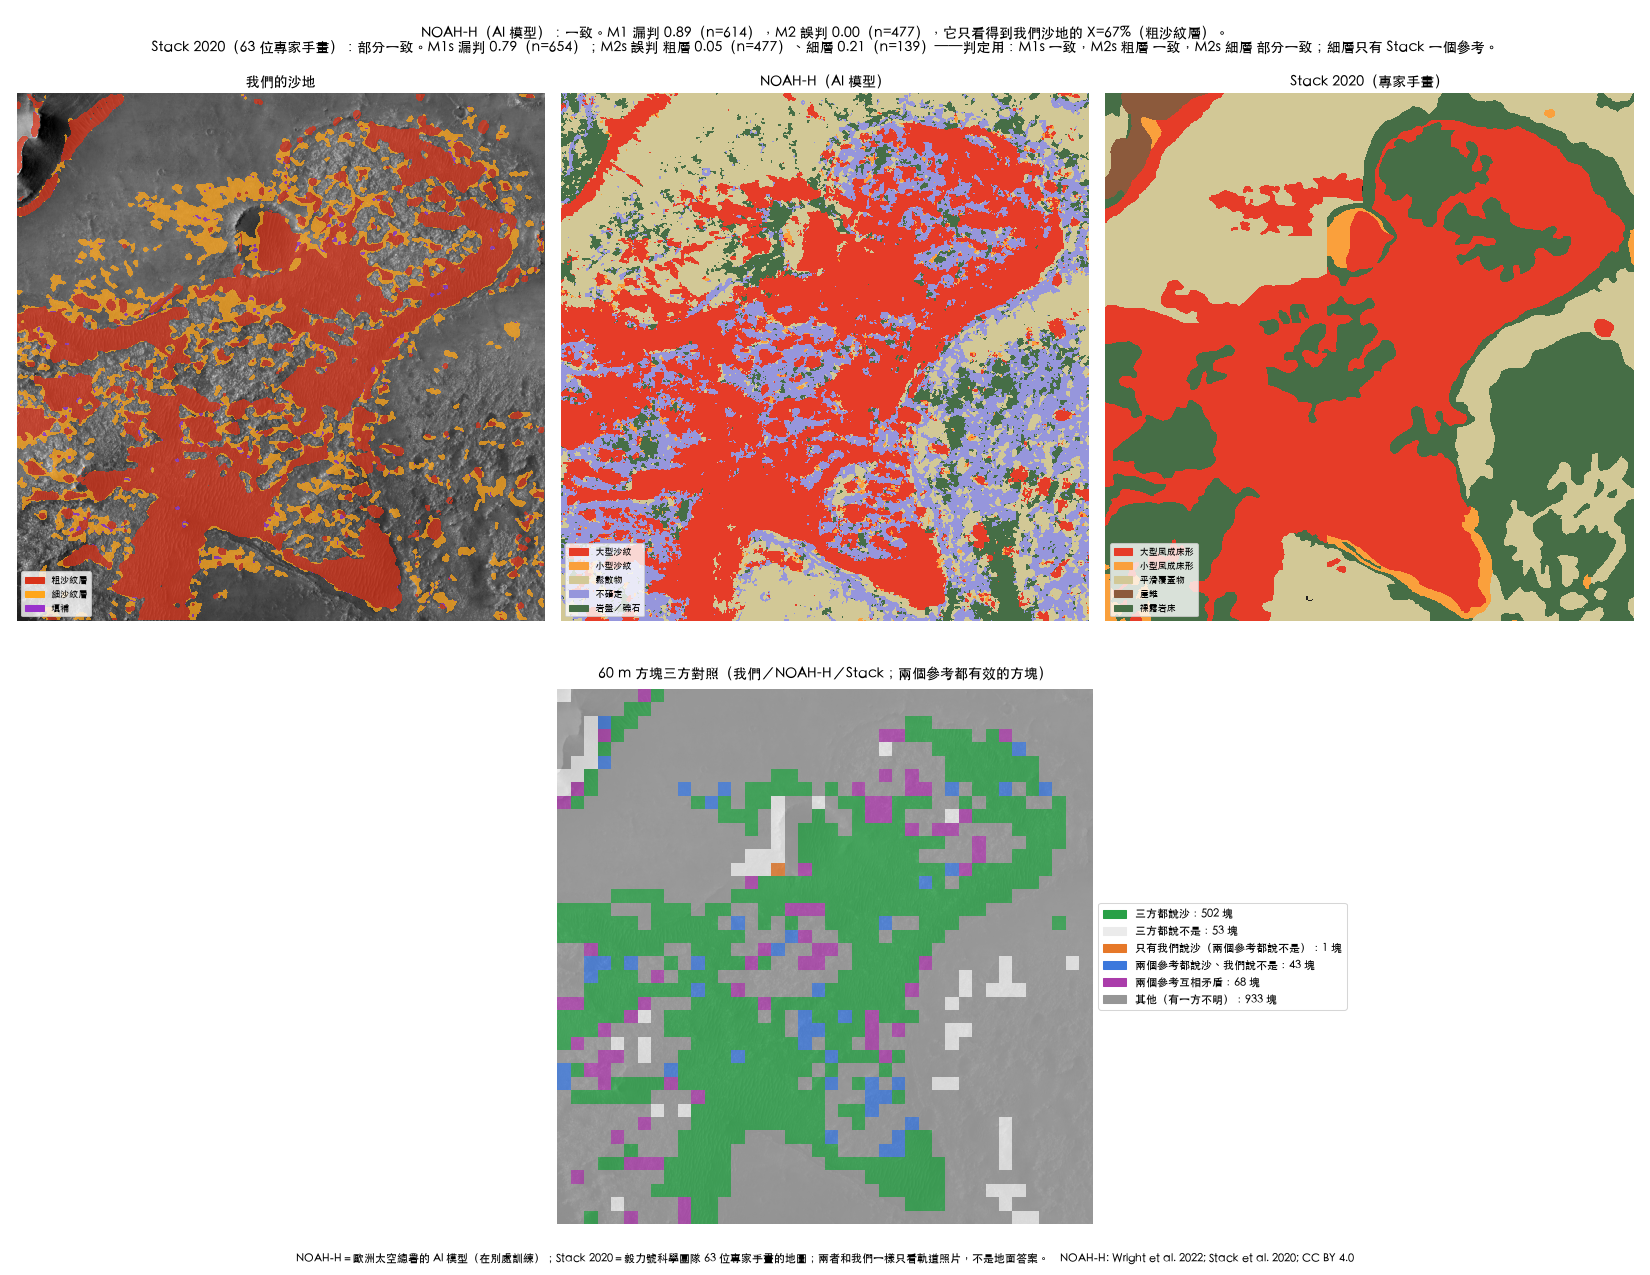
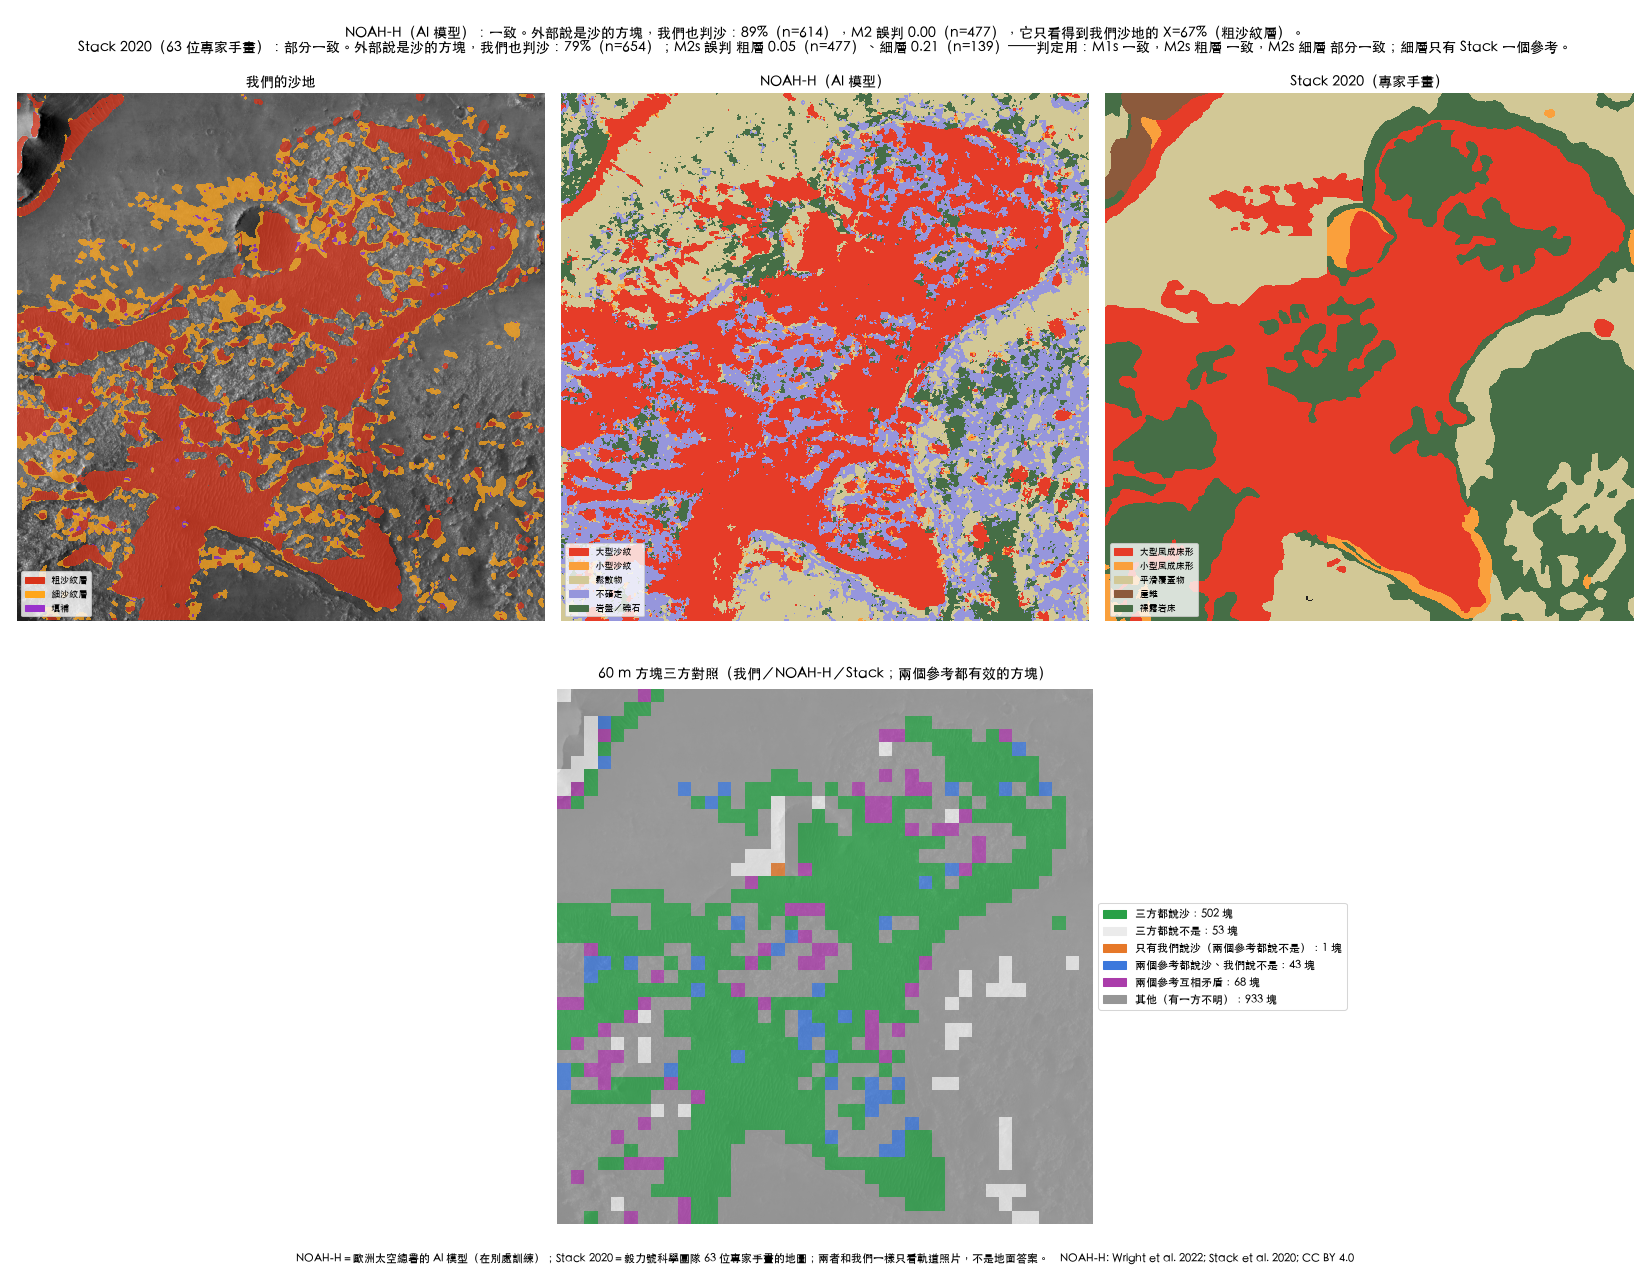
README/UI wording per direction rev 15 (option D): Limitations entry for the NOAH-H and Stack 2020 comparisons, Status sentence, idx.ab.L.sand; DATA_LOG acceptance line; ST1 figure top lines reworded (text only, no number changed)
Claude-Session: https://claude.ai/code/session_01PJvXnofSRBXUdNFScTHsf8

Changed region(s): [[0.0618, 0.0, 0.9582, 0.0612]]

diff --git a/web/i18n.js b/web/i18n.js
@@ -144,7 +144,7 @@ const I18N_RAW = {
   'idx.ab.lDerived': [`地形類別、路線、氧氣、時間`, `classes, routes, oxygen, time`],
   'idx.ab.lAssumed': [`步行與自走車參數、居住艙位置`, `walk and rover parameters, habitat position`],
   'idx.ab.lSimulated': [`自走車偵察`, `rover recon`],
-  'idx.ab.L.sand': [`沙地類別是自動紋理規則，尚未經人工審閱（啟發式）。長條明暗邊界（崖、反照率交界）有時會被判為沙地；細小沙紋與大沙紋成本相同。`, `Sand classes are an automatic texture rule, not yet reviewed by a person (heuristic). Long bright/dark edges (scarps, albedo contacts) are sometimes called sand; thin small ripples and large ripples get the same cost.`],
+  'idx.ab.L.sand': [`沙地類別是自動紋理規則（啟發式），尚未經人工審閱。長條明暗邊界（崖、反照率交界）有時會被判為沙地；細小沙紋與大沙紋成本相同。與兩張同樣只看 HiRISE 的獨立地圖比對（規則事先寫定、各跑一次；是一致性，不是驗證）：NOAH-H AI 分類一致（它只看得到粗沙紋層，佔沙地 67%）；毅力號科學團隊手畫地圖（Stack 2020）部分一致——我們細沙紋層的沙方塊有 21%（139 塊中 29 塊）落在它畫成岩床、崖錐或少量覆蓋的地方，超過事先定的 20%；這一層只有它一個參考，從軌道照片分不出哪一張對。`, `Sand classes are an automatic texture rule (heuristic), not yet reviewed by a person. Long bright/dark edges (scarps, albedo contacts) are sometimes called sand; thin small ripples and large ripples get the same cost. Compared with two independent maps of the same HiRISE images (rules fixed in advance, each run once; consistency, not validation): consistent with the NOAH-H classifier (it sees only the coarse-ripple layer, 67 % of the sand); partly consistent with the Mars 2020 Science Team map (Stack et al. 2020) — 21 % of our fine-ripple sand blocks (29 of 139) lie mostly on units it maps as bedrock, talus or minor cover, above the 20 % limit set in advance; that layer has only this one reference, and orbital images cannot tell which map is right.`],
   'idx.ab.L.prior': [`軌道地圖沒有沙地：同樣的紋理測試套在 CTX 影像上找不到沙地（AUC 0.48）。有經驗的判圖者也許能從 CTX 猜出大沙帶；我們的先驗沒有。完整數據表裡的 A+ 就是框出這種情況。`, `The orbital map has no sand: the same texture test on the CTX image could not find the sand fields (AUC 0.48). An experienced image interpreter might guess the large sand belt from CTX; our prior does not. The A+ row of the full table brackets that case.`],
   'idx.ab.L.params': [`步行速度與耗氧係數來自團隊早期原型，原始出處仍在查證；沒有模擬生理數值。`, `Walk speed and oxygen factors come from the team's earlier prototype; their original sources are still being checked. No physiological values are modelled.`],
   'idx.ab.L.under': [`偵察 30 圈後，計畫平均仍低估一趟步行 {e} 標稱分鐘（計畫 {p}，實際 {a}）；知道部分地圖有時比完全不知道更糟（繞開看過的沙地，可能撞上沒看過的沙地）。`, `After 30 recon loops the plan still underestimates a walk by {e} nominal minutes on average (plans {p}, costs {a}); knowing part of the map is sometimes worse than knowing none (a detour around seen sand can run into unseen sand).`],

diff --git a/pipeline/stack_check.py b/pipeline/stack_check.py
@@ -471,11 +471,11 @@ def stage_figures():
     nh = NC.load_noahh_025()
     words = {"agree": "一致", "partial": "部分一致", "severe": "嚴重不一致", "insufficient": "不足以判定"}
     f2 = lambda v: "—" if v is None or (isinstance(v, float) and math.isnan(v)) else f"{v:.2f}"   # noqa: E731
-    line_n = (f"NOAH-H（AI 模型）：{words[RN['overall']]}。M1 漏判 {RN['M1']:.2f}（n={RN['M1_n']}），M2 誤判 {RN['M2']:.2f}（n={RN['M2_n']}），"
+    line_n = (f"NOAH-H（AI 模型）：{words[RN['overall']]}。外部說是沙的方塊，我們也判沙：{100 * RN['M1']:.0f}%（n={RN['M1_n']}），M2 誤判 {RN['M2']:.2f}（n={RN['M2_n']}），"
               f"它只看得到我們沙地的 X={100 * RN['X_coarse_share']:.0f}%（粗沙紋層）。")
     vd = R["verdicts"]["directions"]
     dname = {"M1s": "M1s", "M2s_coarse": "M2s 粗層", "M2s_fine": "M2s 細層", "M2s_merged": "M2s 兩層合併"}
-    line_s = (f"Stack 2020（63 位專家手畫）：{words[R['stack_overall']]}。M1s 漏判 {f2(R['M1s'])}（n={R['M1s_n']}）；"
+    line_s = (f"Stack 2020（63 位專家手畫）：{words[R['stack_overall']]}。外部說是沙的方塊，我們也判沙：{100 * R['M1s']:.0f}%（n={R['M1s_n']}）；"
               f"M2s 誤判 粗層 {f2(R['M2s_coarse'])}（n={R['M2s_coarse_n']}）、細層 {f2(R['M2s_fine'])}（n={R['M2s_fine_n']}）"
               f"——判定用：{'，'.join(f'{dname[k]} {words[v]}' for k, v in vd.items())}；細層只有 Stack 一個參考。")
     cap = ("NOAH-H＝歐洲太空總署的 AI 模型（在別處訓練）；Stack 2020＝毅力號科學團隊 63 位專家手畫的地圖；"

diff --git a/README.md b/README.md
@@ -10,7 +10,7 @@ Challenge: NASA Space Apps 2026, *Interplanetary Survival Guide: Martian Map*.
 2. **Analysis** (where it is worth sending the astronaut): Perseverance's SuperCam laser chemistry is grouped by a rule fixed in advance, and each group's most typical and most unusual rock become candidate stops, each with a card (chemistry with the instrument's error, geologic unit, nearby Perseverance photos). The rover is simulated; the measurements are Perseverance's, and our rover "unlocks" one only by driving within 15 m of where it was taken. Switchable: `config/step2.json` (`enabled`, `link_rule`).
 3. **Astronaut walk**: a route planned to keep enough oxygen to walk home; the page shows whether it really does on the reference terrain, with a walk replay and two return-margin bars (as the plan sees it, and true).
 
-Status: working prototype. Every output that depends on the terrain classes is labelled *heuristic, not yet reviewed* until a person signs off the sand check sheets.
+Status: working prototype. Every output that depends on the terrain classes is labelled *heuristic, not yet reviewed*: no person has signed off the sand classes. They were compared with two independent maps — consistent with one, partly consistent with the other (see Limitations).
 
 ## What the recon is worth (route A vs route B)
 
@@ -74,6 +74,11 @@ The full list with links, roles and labels (measured / derived / assumed / simul
 
 - **The scout rover is simulated.** Its routes come from our planner, not from Perseverance. HiRISE stands in for what the rover's cameras would see; HiRISE is orbital data and is called the *reference terrain*, never ground truth.
 - **Sand classes have not been reviewed by a person** (*heuristic, not yet reviewed*). They come from a fixed texture rule (parallel ripples over tens of metres). Known errors from the random check sheets: long bright/dark edges (scarps, crater rims, albedo contacts) are sometimes called sand (2 of 24 "sand" crops); thin small ripples and large ripples get the same cost. Sand is 40.3 % of the study area.
+- **Sand classes compared with two independent maps of the same HiRISE images (consistency, not validation).** Rules and thresholds were fixed before either comparison, each was run once on the same 1,600 blocks of 60 m, and the sand classes and every route number stayed unchanged (DATA_LOG N1, ST1).
+  - NOAH-H, a deep-learning terrain classifier trained on other Mars sites (Wright et al. 2022): **consistent.** Of the blocks it shows mostly as continuous large ripples, 89 % are our sand (n = 614); 0.2 % of our coarse-ripple sand blocks lie mostly on what it calls bedrock or boulders (n = 477). It can check only our coarse-ripple layer, 67 % of the sand area; the rest it cannot see.
+  - The Mars 2020 Science Team photogeologic map (Stack et al. 2020; 63 team members, by hand at 1:5,000): **partly consistent.** Of the blocks it maps mostly as aeolian bedforms, 79 % are our sand (n = 654); 4.6 % of our coarse-ripple sand blocks lie mostly on units it maps as bare bedrock, talus or minor smooth cover (n = 477). **In our fine-ripple layer that share is 21 % (29 of 139 blocks), above the 20 % limit for "consistent" set in advance.** In the other direction, of the 20 blocks it maps mostly as small bedforms, we call 7 sand (described only). For the fine-ripple layer this map is the only reference, and orbital images cannot tell which map is right there: the expert map draws large bedforms only where they cover about 80 % of the surface and generalises boundaries; our rule is known to call some long bright/dark edges sand.
+  - All three together: both maps say "not sand" where we say sand in 1 block (0.2 % of our 616 sand blocks); both say sand where we do not in 43 blocks (4.4 % of our 984 other blocks). Where the two maps contradict each other (68 blocks) we do not decide which is right.
+  - One reading of the expert map is ours, written down before the comparison: its plain "Undifferentiated smooth" unit is taken as the full-cover grade beside the paper's "moderate" and "minor" cover grades. No verdict depends on it.
 - **The orbital map (prior) has no sand.** The same texture test on the CTX 6 m image did not find the sand fields (AUC 0.48, recall 0.2 %; figure `qa/jezero/S2_ctx_vs_hirise_sand.png`). An experienced image interpreter might guess the large sand belt from CTX; our prior does not have that layer, and nobody drew it by hand because everyone involved had already seen the HiRISE answer. The A+ column (orbital map plus sand where a 60 m block is at least half sand on the reference) brackets that case; it uses the reference terrain and is not real pre-departure knowledge.
 - **Elevation check against the MOLA 463 m grid fails** (X3 items 3–4: HiRISE − MOLA −11.0 ± 10.7 m, CTX − MOLA std 14.3 m; limit 10 m). A supplementary check written before it was run, against 1,067 individual MOLA laser shots, passes (−2.6 ± 7.4 m and −3.3 ± 7.2 m); it is reported next to the fail, not instead of it. Keeping Jezero after this fail was decided after seeing the result. The thresholds were fixed after measuring a first Arcadia site and before any route number.
 - **The first run of the rover goal rule had a defect**: 5 of 30 loops ended 1.3–4.8 energy units over the 4,000 budget. The reserve rule was fixed (margin of two steps instead of one) and the simulation was re-run once; the rerun (0 loops over budget, same coverage 11.3 %) is the record and both runs are in `DATA_LOG.md`.

diff --git a/DATA_LOG.md b/DATA_LOG.md
@@ -805,3 +805,5 @@ Role: **consistency with the Mars 2020 Science Team photogeologic map (Stack et 
 - (f) Polygon areas (m², min / 5th pct / median): Ab-l whole map n = 1,021: 28 / 517 / 7,464, AOI n = 49: 447 / 898 / 15,167; Ab-s whole 520: 0 / 154 / 2,590, AOI 13: 1,287 / 1,468 / 6,607; Us ≳75 % whole 686: 99 / 824 / 13,038, AOI 21: 2,380 / 3,910 / 58,112; Us 25–75 % whole 108: 266 / 1,009 / 14,375, AOI 5: 266 / 1,525 / 37,162; Us >0–25 % whole 178: 347 / 759 / 11,015, AOI 4: 4,841 / 4,953 / 8,429; T whole 100: 867 / 1,580 / 18,611, AOI 2: 53,205 / 57,419 / 95,345.
 - **ST7 consequence (as pre-registered, no new rule):** Stack is not severe → does not block options A or C; Stack is not "agree" → **option B unavailable**. NOAH-H verdict (agree), N8 (not run), the frozen sand, A vs B and every frozen number unchanged. Labels / README words: manager.
 - ST9 figure: `qa/jezero/stack2020/ST1_three_way.png` (internal QA). Only the figure layout was adjusted after the first render (title overlap, Chinese direction names); no number changed.
+- manager 驗收 N1、ST1；Us 解讀追認（decisions 2026-11-14）
+- ST9 figure wording (2026-11-14, manager): top lines "M1 漏判 0.89" / "M1s 漏判 0.79" read as "89 % / 79 % missed"; changed to "外部說是沙的方塊，我們也判沙：89%／79%". Text only, re-rendered from stored results; no number changed.
